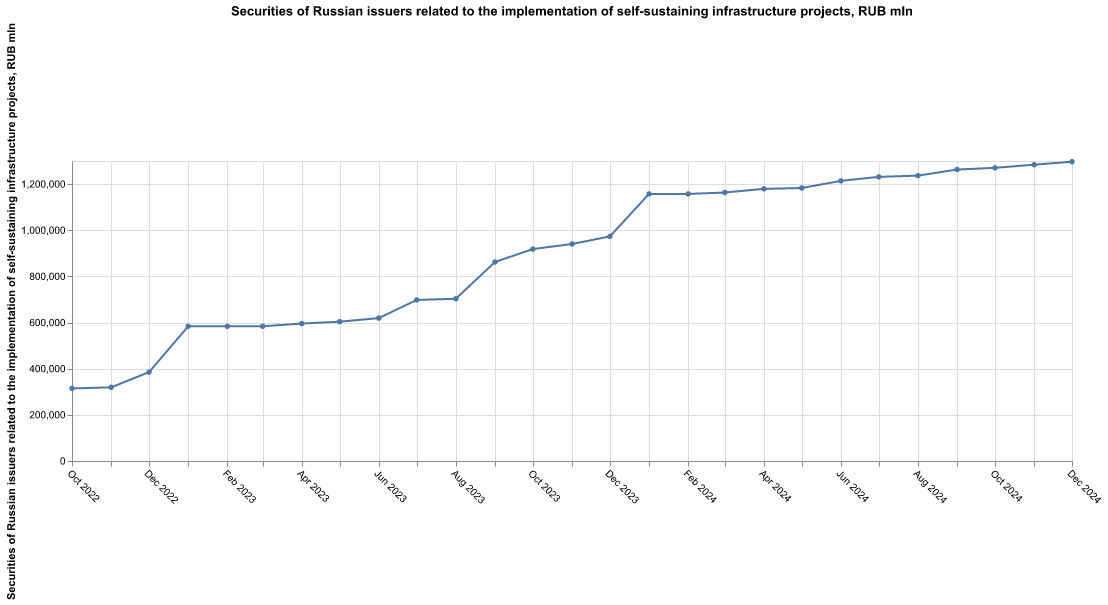
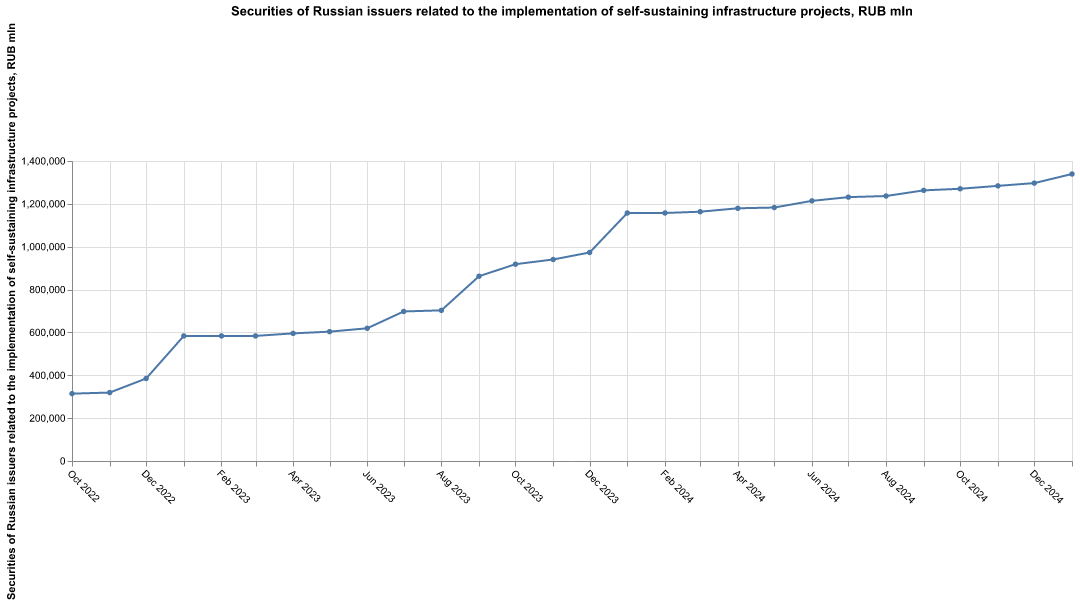
January updates

diff --git a/code/report_creater.py b/code/report_creater.py
@@ -52,7 +52,7 @@ def main():
                                 messages=[{"role": "system", "content": system_message},
                                             {"role": "user", "content": final_text,},
                                         ],
-                                temperature = 0.3,
+                                temperature = 0.2,
                                 )
 
     report = response.message.content[0].text.split('\n')

diff --git a/README.md b/README.md
@@ -4,7 +4,7 @@ The size, structure and data on the dynamics of the fund are provided from the M
 
 The basic regulatory document of the RNWF is [Decree #18 from January 19, 2008](https://www.consultant.ru/document/cons_doc_LAW_74298/92d969e26a4326c5d02fa79b8f9cf4994ee5633b/) of the Government of Russian Federation 'On the Procedure for managing funds of the National Wealth Fund' and '[Requirements to financial assets](https://www.consultant.ru/document/cons_doc_LAW_74298/7bc757f5e7b23b669abc3e59d4b3a56e9a7307ba/) in which resources of the NWF can be placed.
 
-## Data as of December 1, 2024
+## Data as of January 1, 2025
 Since May-June 2024, access to the data of the website of the MinFin became restricted from abroad, access is possible only through VPN (server address - Russia).
 
 ## All tables and plots are available on [russiannationalwelfarefund.streamlit.app](https://russiannationalwelfarefund.streamlit.app/)
